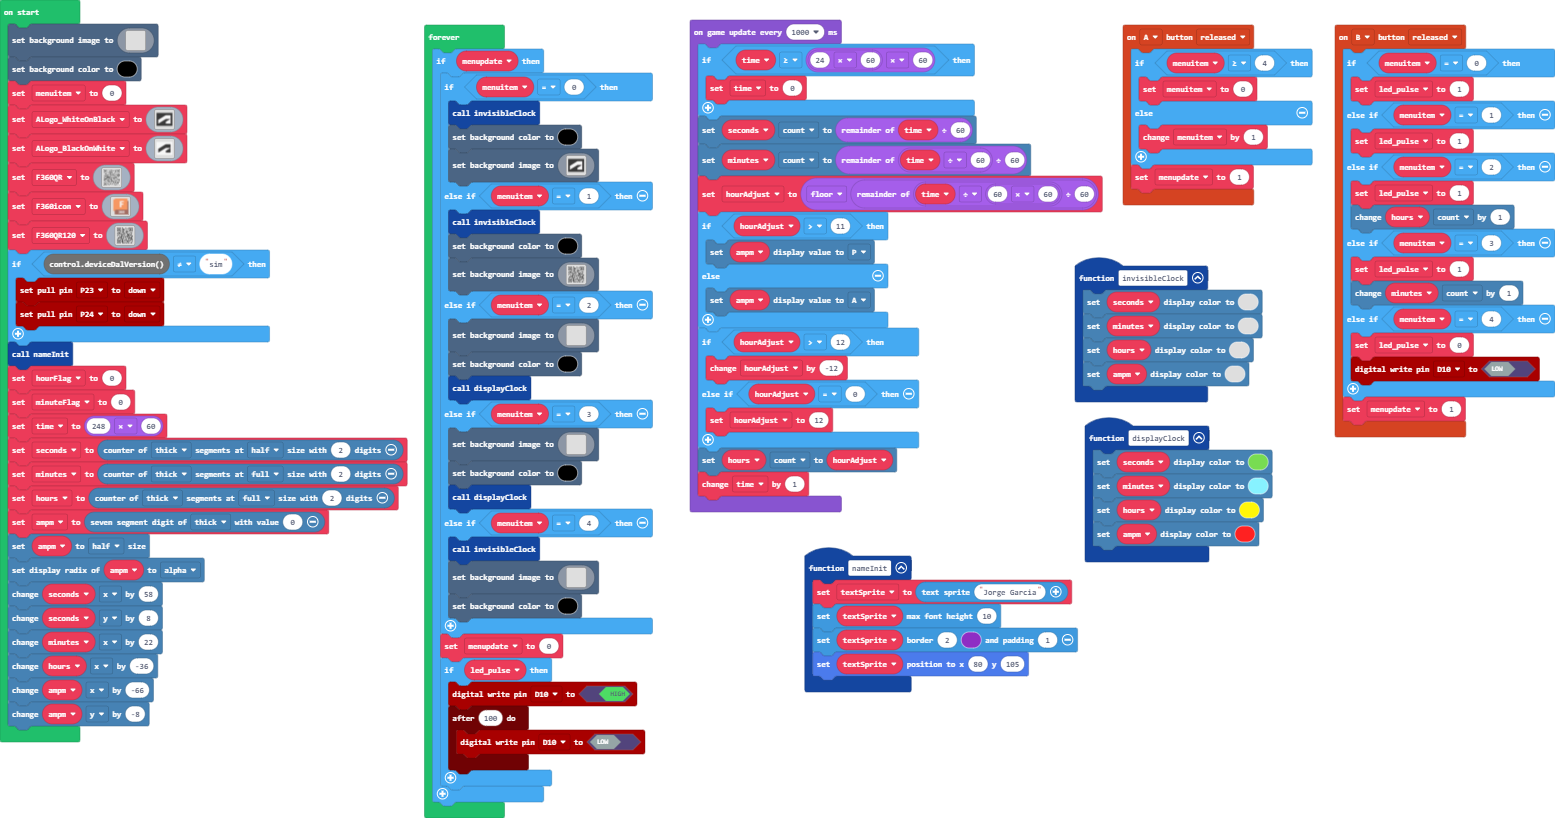
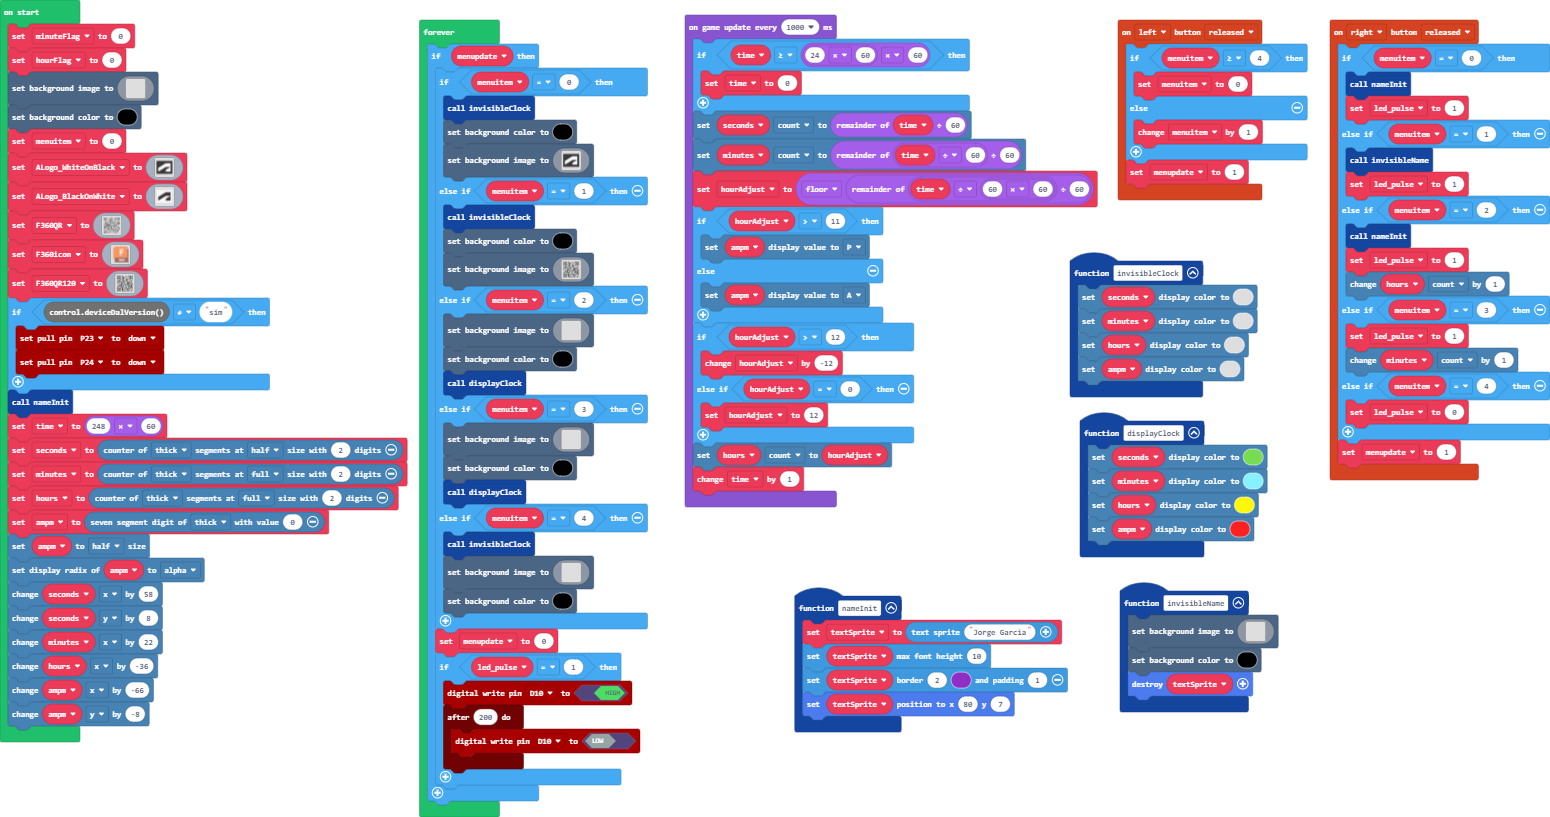
Update main.blocks, main.ts

Changed region(s): [[0.0, 0.0, 1.0, 1.0], [0.3097, 0.9792, 0.3406, 1.0], [0.0929, 0.765, 0.1239, 0.7956]]

diff --git a/main.ts b/main.ts
@@ -1,7 +1,26 @@
 namespace SpriteKind {
     export const marquee = SpriteKind.create()
 }
-controller.A.onEvent(ControllerButtonEvent.Released, function () {
+controller.right.onEvent(ControllerButtonEvent.Released, function () {
+    if (menuitem == 0) {
+        nameInit()
+        led_pulse = 1
+    } else if (menuitem == 1) {
+        invisibleName()
+        led_pulse = 1
+    } else if (menuitem == 2) {
+        nameInit()
+        led_pulse = 1
+        hours.count += 1
+    } else if (menuitem == 3) {
+        led_pulse = 1
+        minutes.count += 1
+    } else if (menuitem == 4) {
+        led_pulse = 0
+    }
+    menupdate = 1
+})
+controller.left.onEvent(ControllerButtonEvent.Released, function () {
     if (menuitem >= 4) {
         menuitem = 0
     } else {
@@ -19,40 +38,30 @@ function nameInit () {
     textSprite = textsprite.create("Jorge Garcia")
     textSprite.setMaxFontHeight(10)
     textSprite.setBorder(2, 10, 1)
-    textSprite.setPosition(80, 105)
+    textSprite.setPosition(80, 7)
 }
-controller.B.onEvent(ControllerButtonEvent.Released, function () {
-    if (menuitem == 0) {
-        led_pulse = 1
-    } else if (menuitem == 1) {
-        led_pulse = 1
-    } else if (menuitem == 2) {
-        led_pulse = 1
-        hours.count += 1
-    } else if (menuitem == 3) {
-        led_pulse = 1
-        minutes.count += 1
-    } else if (menuitem == 4) {
-        led_pulse = 0
-        pins.D10.digitalWrite(false)
-    }
-    menupdate = 1
-})
 function displayClock () {
     seconds.setDigitColor(7)
     minutes.setDigitColor(9)
     hours.setDigitColor(5)
     ampm.setDigitColor(2)
 }
+function invisibleName () {
+    scene.setBackgroundImage(assets.image`blank`)
+    scene.setBackgroundColor(15)
+    textSprite.destroy()
+}
 let hourAdjust = 0
-let led_pulse = 0
 let textSprite: TextSprite = null
 let menupdate = 0
+let led_pulse = 0
 let ampm: SevenSegDigit = null
 let hours: DigitCounter = null
 let minutes: DigitCounter = null
 let seconds: DigitCounter = null
 let menuitem = 0
+let minuteFlag = 0
+let hourFlag = 0
 scene.setBackgroundImage(assets.image`blank`)
 scene.setBackgroundColor(15)
 menuitem = 0
@@ -66,8 +75,6 @@ if (control.deviceDalVersion() != "sim") {
     pins.P24.setPull(PinPullMode.PullDown)
 }
 nameInit()
-let hourFlag = 0
-let minuteFlag = 0
 let time = 248 * 60
 seconds = sevenseg.createCounter(SegmentStyle.Thick, SegmentScale.Half, 2)
 minutes = sevenseg.createCounter(SegmentStyle.Thick, SegmentScale.Full, 2)
@@ -125,9 +132,9 @@ forever(function () {
             scene.setBackgroundColor(15)
         }
         menupdate = 0
-        if (led_pulse) {
+        if (led_pulse == 1) {
             pins.D10.digitalWrite(true)
-            timer.after(100, function () {
+            timer.after(200, function () {
                 pins.D10.digitalWrite(false)
             })
         }
